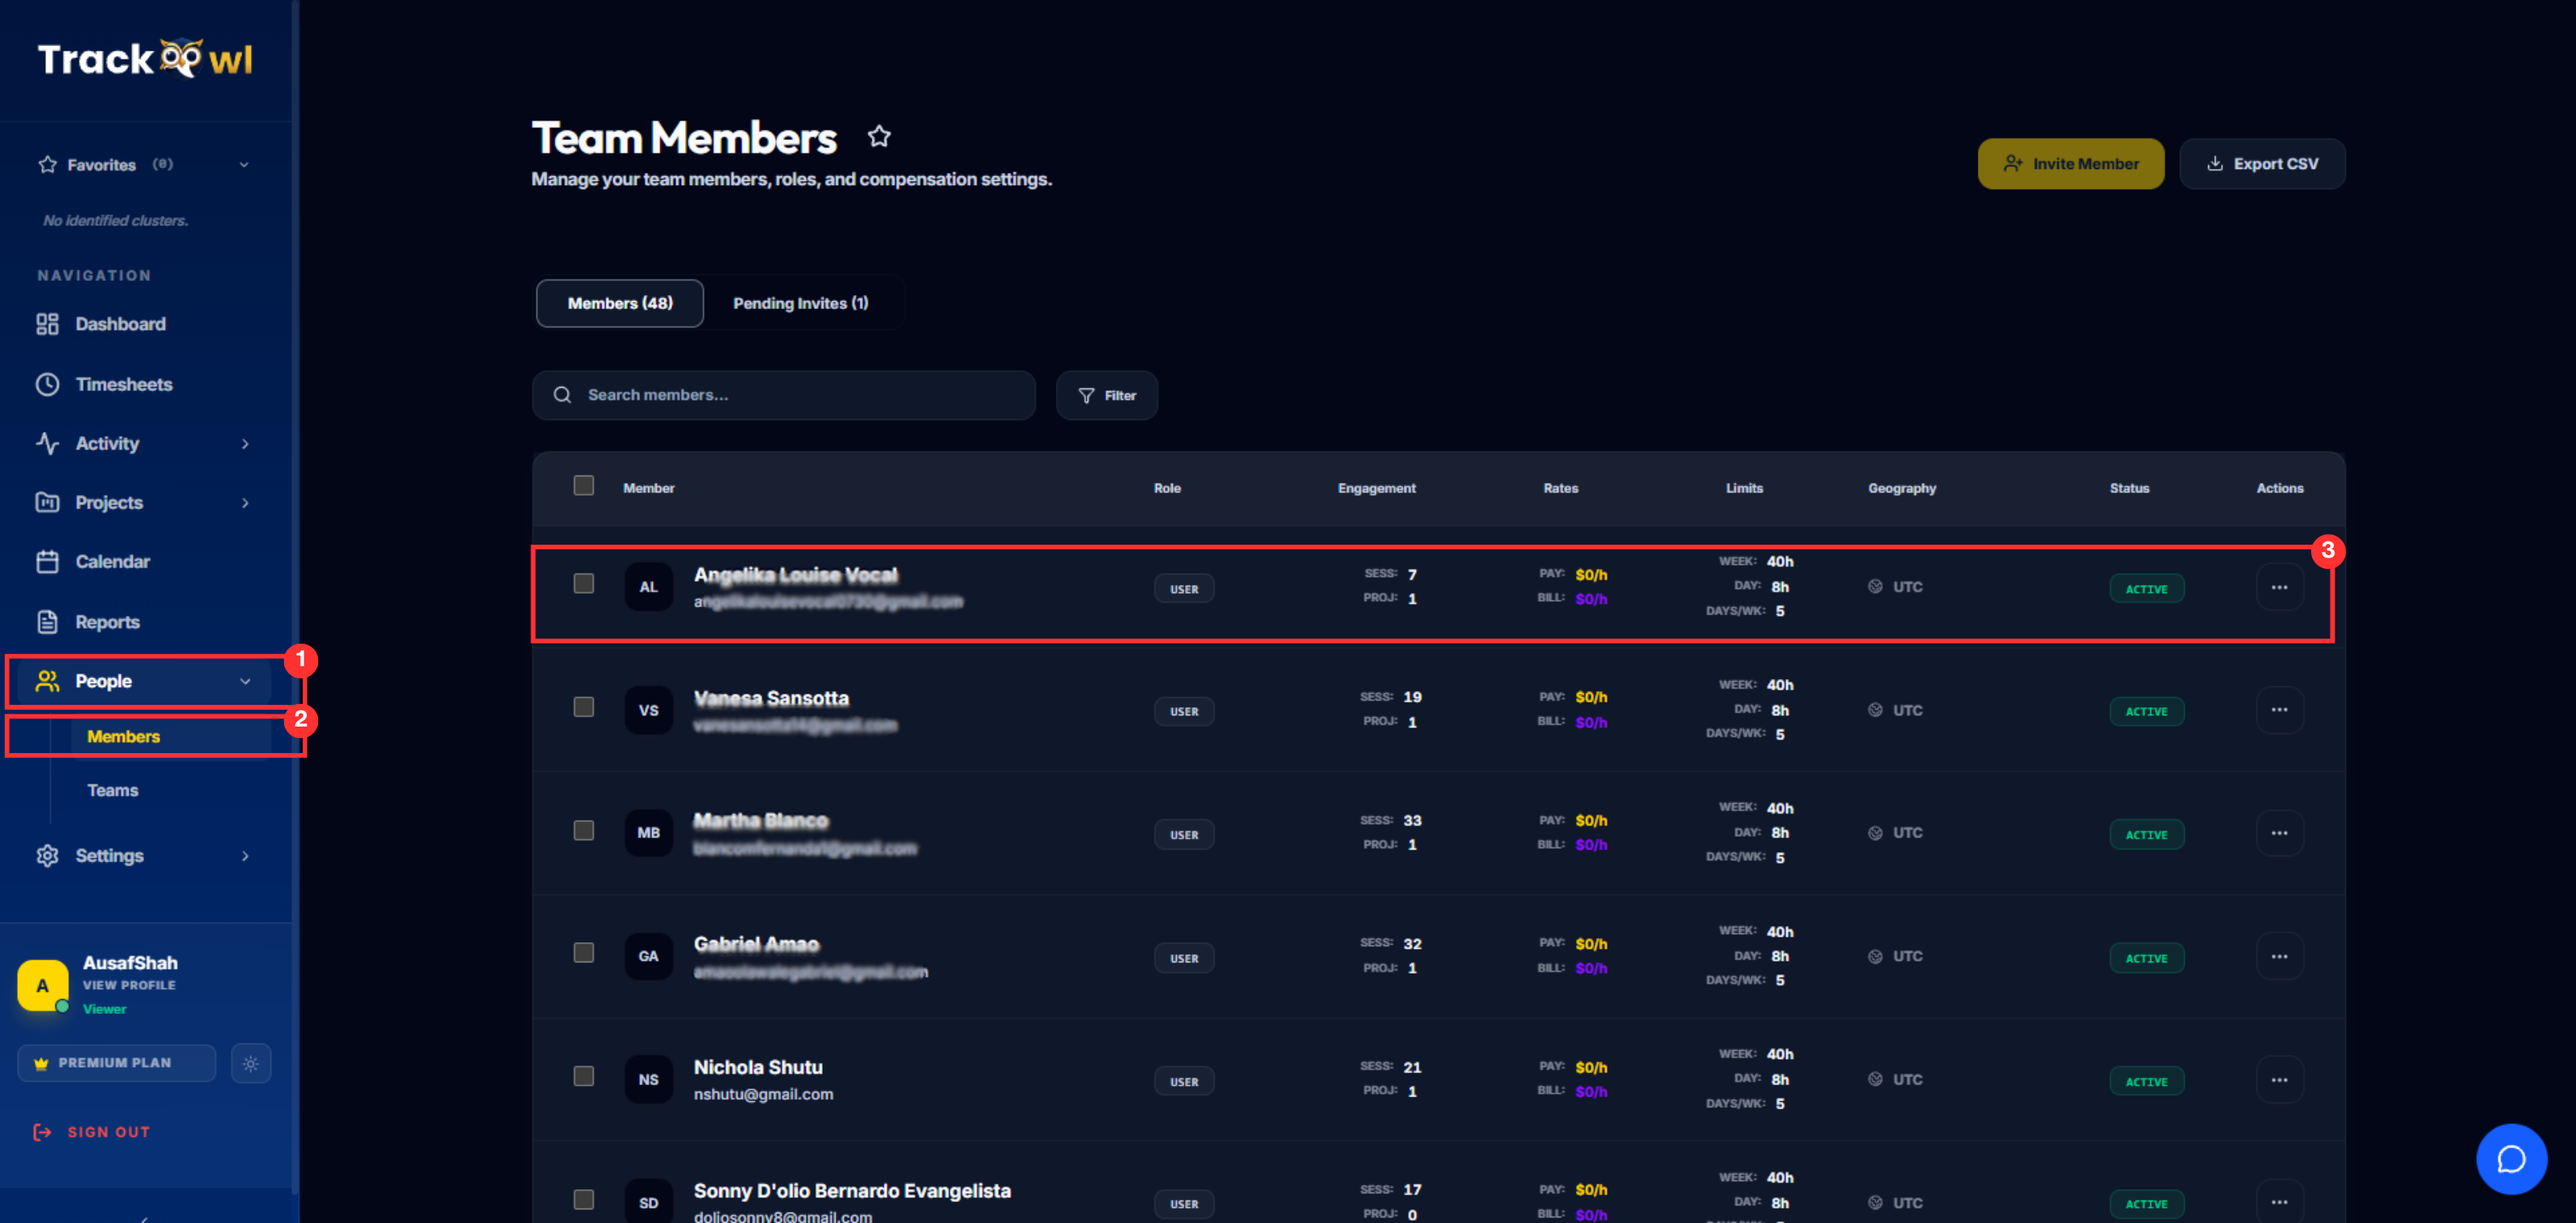
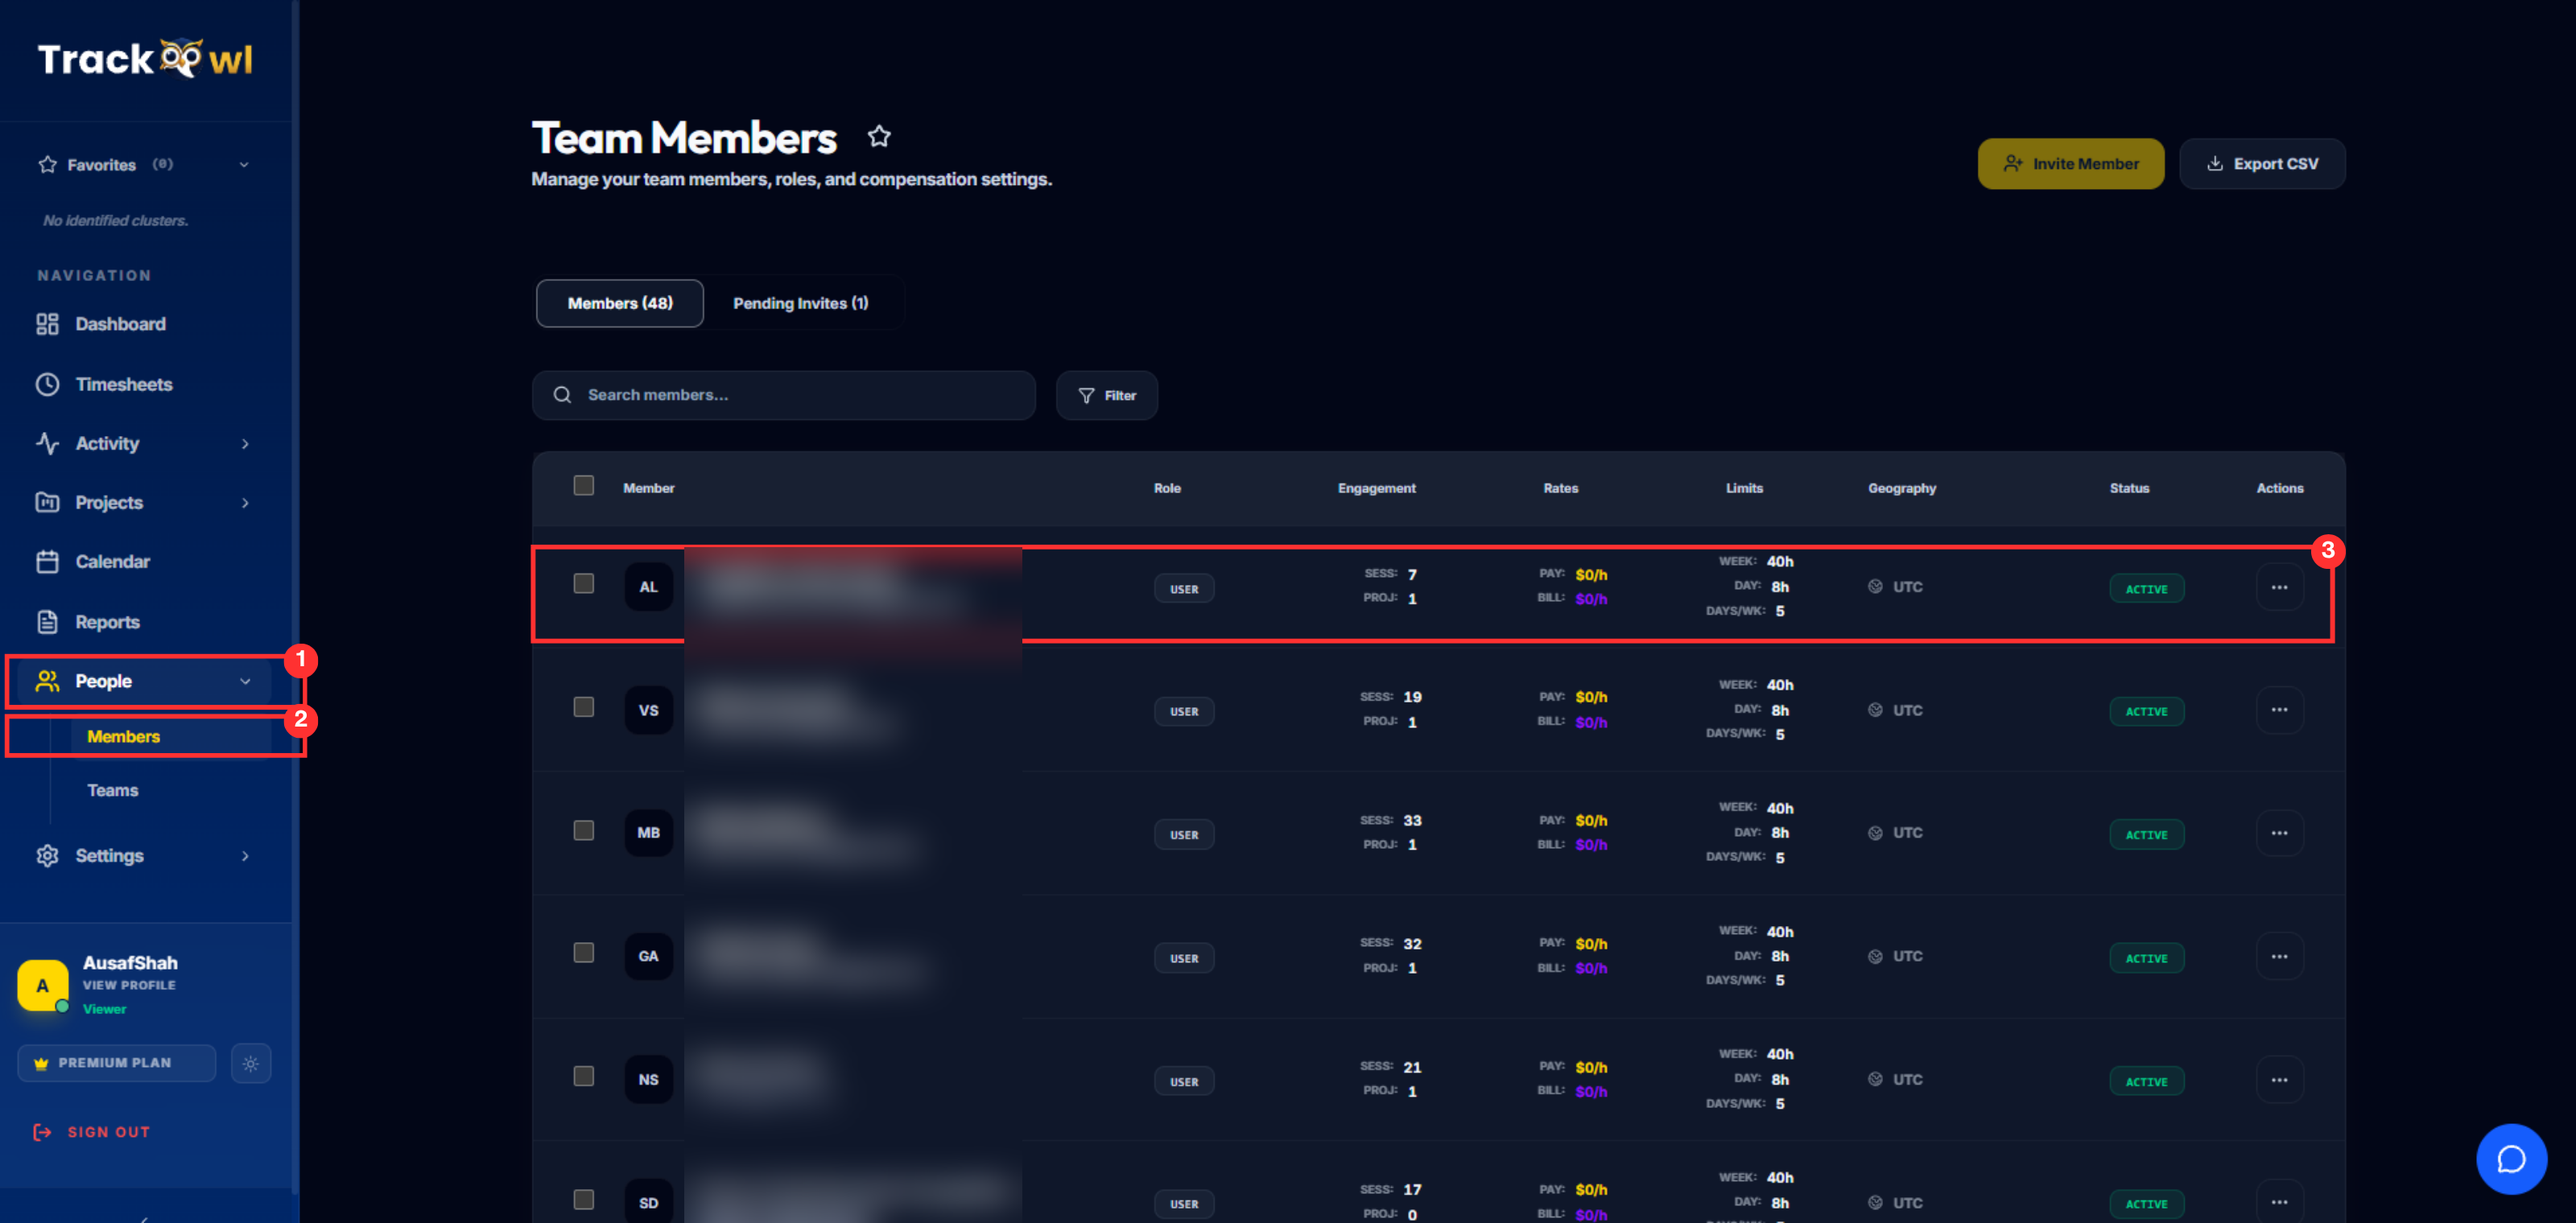
docs(support): drop three screenshots and blur personal details in the rest
Create organization, Assign teams/users to a project and Project limits
are back to having no screenshot, and the five image files they used are
deleted.

Names and email addresses other than the John Doe demo account are now
blurred wherever they appeared: the Team Members tables, the member and
assignee pickers, the Timesheets rows, Activity Blocks, the Edit Member
page and the Members panel on the project form. Two existing captures
had a blur weak enough to still read the names through, so those were
redone at the same strength as the rest.

Checked every other capture in the folder; none of them show a name or
an address beyond the demo account.

diff --git a/apps/admin-portal/src/content/create-organization.md b/apps/admin-portal/src/content/create-organization.md
@@ -16,12 +16,6 @@ A workspace is created by signing up. There is no "new organisation" button insi
 1. Go to **trackowl.io/signup**.
 2. Sign up with Google, or with your work email and a password of at least 8 characters.
 
-![Settings to Org Settings in the sidebar, once the workspace exists.](/support/org-settings-nav.png)
-*Settings to **Org Settings** in the sidebar, once the workspace exists.*
-
-![Governance holds the organisation timezone. Set this before anyone tracks time.](/support/signup-set-org-timezone.png)
-*Governance holds the organisation timezone. Set this before anyone tracks time.*
-
 ---
 
 ## Step-by-Step Instructions

diff --git a/apps/admin-portal/src/content/assign-teams-users-to-a-project.md b/apps/admin-portal/src/content/assign-teams-users-to-a-project.md
@@ -20,12 +20,6 @@ Understanding how to use the **Assign teams/users to a project** feature is esse
 2. In the left sidebar, open **Projects**.
 3. Select **Projects** (`/dashboard/projects`).
 
-![Projects to Projects in the sidebar, then New Project.](/support/projects-assign-nav.png)
-*Projects to Projects in the sidebar, then **New Project**.*
-
-![The Members panel beside the project form: search the team and tick everyone who should be on it.](/support/project-members-panel.png)
-*The **Members** panel beside the project form: search the team and tick everyone who should be on it.*
-
 ---
 
 ## Step-by-Step Instructions

diff --git a/apps/admin-portal/src/content/project-limits.md b/apps/admin-portal/src/content/project-limits.md
@@ -20,9 +20,6 @@ Project limits allow you to cap the total number of hours or budget a team can s
 2. In the left sidebar, open **Projects**.
 3. Select **Projects** (`/dashboard/projects`).
 
-![Budget Type: total hours or amount, or the same capped per month.](/support/project-limits-budget-type.png)
-***Budget Type**: total hours or amount, or the same capped per month.*
-
 ---
 
 ## Step-by-Step Instructions
